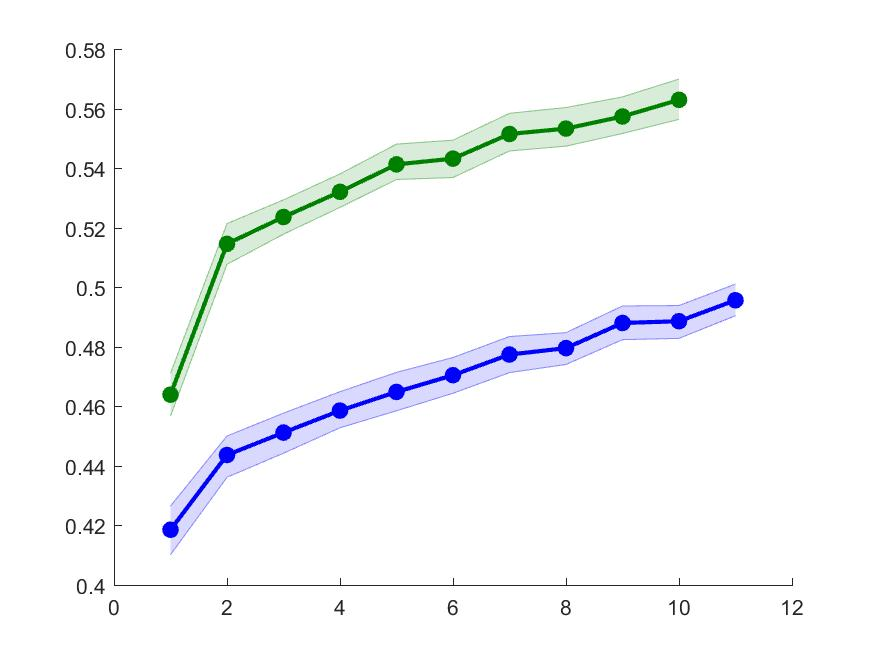
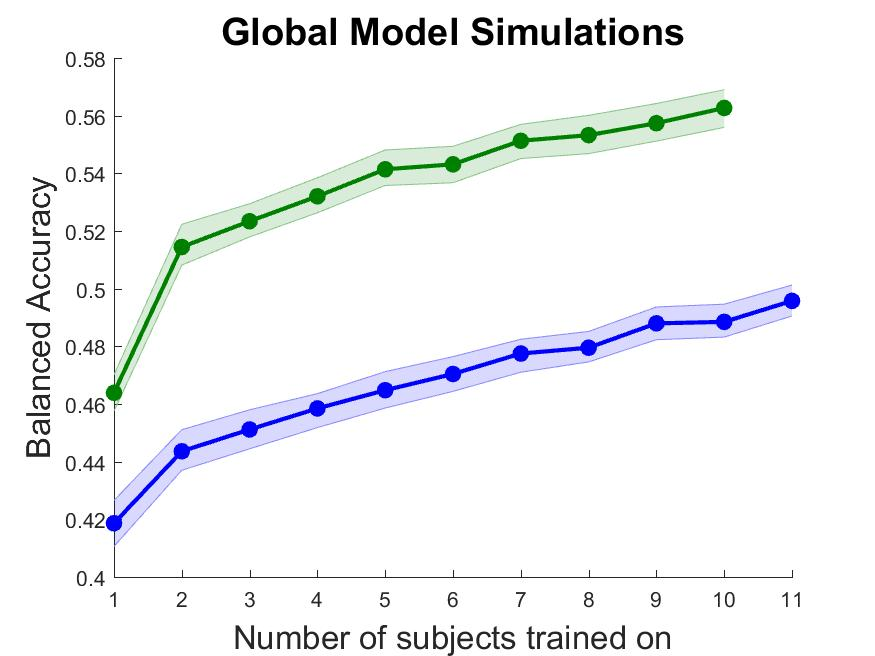
updating 3 session model results

diff --git a/plotdata.m b/plotdata.m
@@ -10,7 +10,7 @@ bp = boxplot(data);
 set(bp,'linewidth',2);
 ylim([0.3 1])
 ylabel('Balanced Accuracy','FontSize',12)
-set(gca,'Box','off','XTick',[1:4],'XTickLabel',{'Healthy','Impairment-Specific','Patient-Specific','Device-Specific'},'YTick',[0.1:0.1:1],'TickDir','out','LineWidth',2,'FontSize',12,'FontWeight','bold');
+set(gca,'Box','off','XTick',[1:4],'XTickLabel',{'Healthy','Impairment-Specific','Patient-Specific','Patient&Device-Specific'},'YTick',[0.1:0.1:1],'TickDir','out','LineWidth',2,'FontSize',12,'FontWeight','bold');
 
 %Change box border to black
 b = get(get(gca,'children'),'children');   % Get the handles of all the objects
@@ -332,4 +332,12 @@ for b = 1:size(mat_BACC,2)
     CI_bars(:,b) = abs(CI_boot(:,b) - mu(b));
 end
 h4 = shadedErrorBar(1:N,mu,flipud(CI_bars),{'-o','Color',[0 0.5 0],'MarkerFaceColor',[0 0.5 0]},1);
+xlabel('Number of subjects trained on','FontSize',14);
+ylabel('Mean Balanced Accuracy','FontSize',14);
+% title('Global Models Performance','FontSize',14)
+xlim([1 11])
+% ylim([0.45 0.7])
+legend([h1.mainLine h4.mainLine],'Healthy Model','Impairment-Specific Model','Location','southeast')
+set(gca,'Box','off','XTick',[1:max_subjects],'YTick',[0.1:0.05:1],'TickDir','out','LineWidth',2,'FontSize',14,'FontWeight','bold','XGrid','off');
 saveas(gcf,'globalmodelsims.jpg')
+
